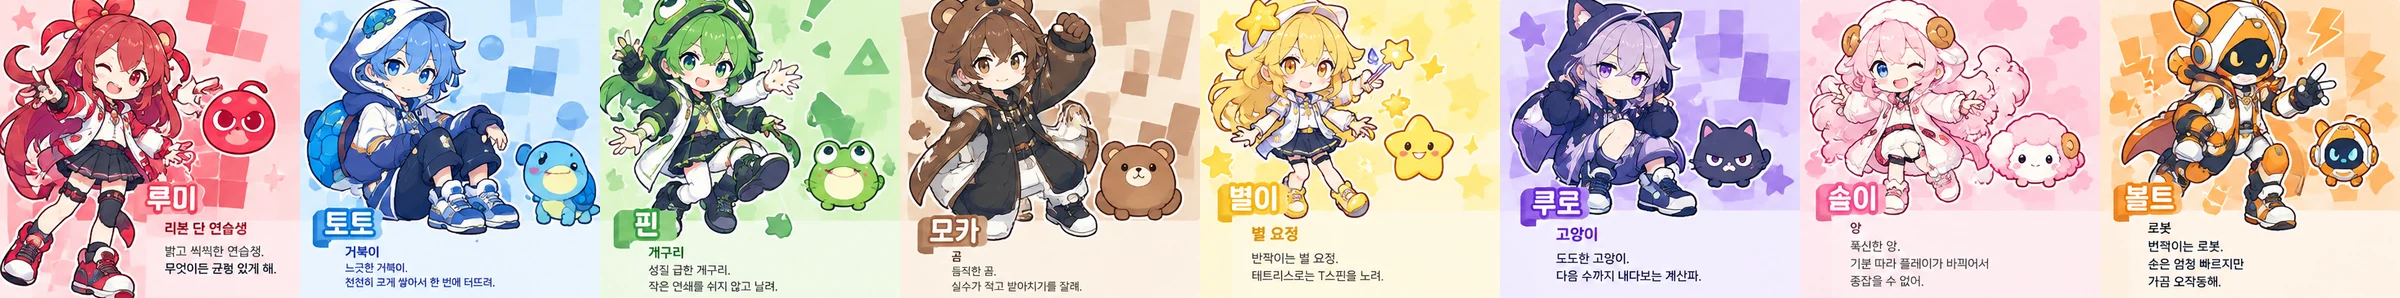
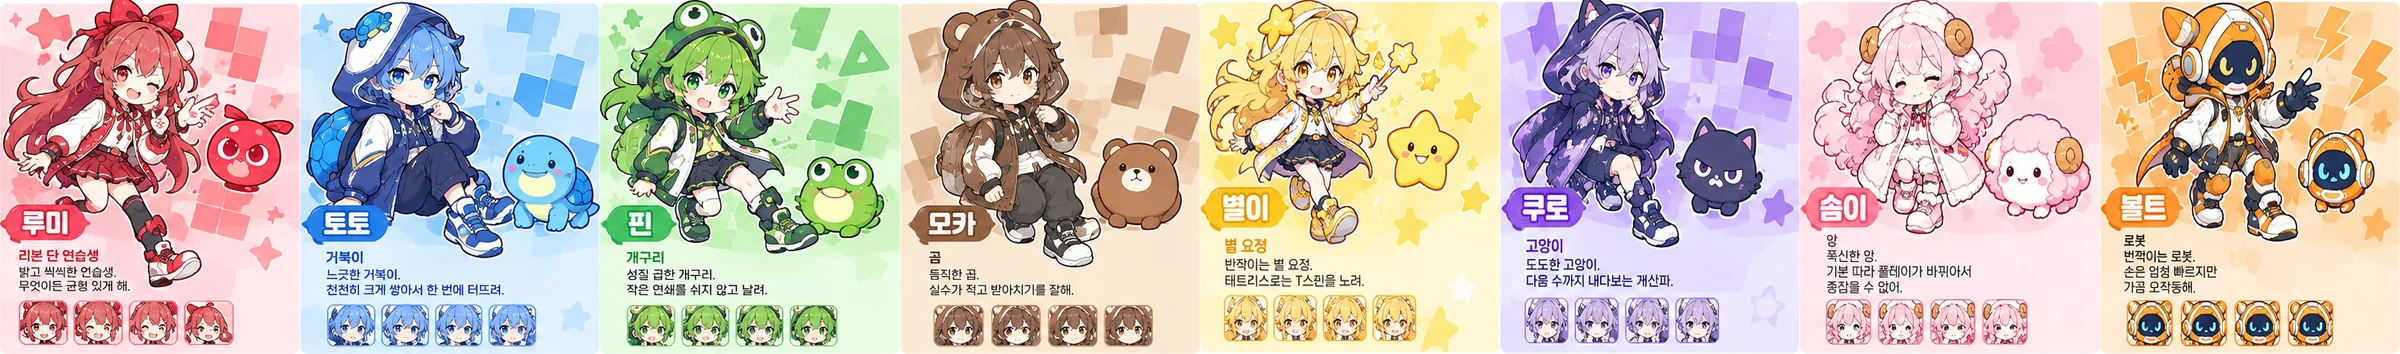
캐릭터 그림을 손 고친 새 그림으로 교체
- 새 그림(손 모양 수정, 카드 아래 표정 4개 포함)에서 카드 · 얼굴 · 마스코트 아이콘을 다시 잘라 img/chars_*.webp 교체
- 카드 칸 크기 300×354로(새 카드 비율), 폰 캐릭터 고르기 카드도 같은 비율
- 마스코트 아이콘은 지난번처럼 흰 테두리·잡티 없이 가장자리를 부드럽게

Claude-Session: https://claude.ai/code/session_01BpEoT5hGvA36WJdbpSd1D1

diff --git a/public/js/chars.js b/public/js/chars.js
@@ -37,10 +37,10 @@ function charAi(base, ch, kind) {
 }
 
 /* ---------- 캐릭터 그림 ----------
-   img/chars_card.webp: 카드(일러스트 + 이름·소개) 300×298 · chars_bust.webp: 얼굴·상반신 160×160 · chars_icon.webp: 마스코트(배경 투명) 128×128
+   img/chars_card.webp: 카드(일러스트 + 이름·소개 + 표정) 300×354 · chars_bust.webp: 얼굴·상반신 160×160 · chars_icon.webp: 마스코트(배경 투명) 128×128
    모두 CHARS 순서대로 가로 한 줄 */
 const CHAR_IMG = typeof Image === 'function' ? { card: new Image(), bust: new Image(), icon: new Image() } : null;
-const CHAR_CELL = { card: [300, 298], bust: [160, 160], icon: [128, 128] };
+const CHAR_CELL = { card: [300, 354], bust: [160, 160], icon: [128, 128] };
 if (CHAR_IMG) for (const k in CHAR_IMG) {
   CHAR_IMG[k].onload = () => { if (!window.gameReady) return; if (typeof dlgFace === 'function' && dlgOpen()) dlgFace(); if (game.state === 'menu') { drawArts(); if (cur === 'chars') renderChars(); if (cur === 'adv') renderAdv(); if (cur === 'stats' && typeof paintInfo === 'function') paintInfo(); } };
   CHAR_IMG[k].src = `img/chars_${k}.webp`;

diff --git a/public/index.html b/public/index.html
@@ -447,7 +447,7 @@
     #sc-main .tile .rec { left: 7% !important; right: auto !important; top: auto !important; bottom: 9% !important; font-size: 13px; padding: 2px 10px; }
     /* 캐릭터 고르기(폰): 두 줄씩 정사각 카드 */
     #sc-chars { grid-template-columns: 1fr 1fr !important; grid-auto-rows: auto !important; }
-    #sc-chars .tile { aspect-ratio: 1 / 1; min-height: 0; }
+    #sc-chars .tile { aspect-ratio: 300 / 354; min-height: 0; }
     #sc-chars .charcard .mine { font-size: 11px; padding: 1px 7px; top: 7%; right: 8%; }
     /* 어드벤처 스테이지(폰): 키를 키워 얼굴 그림 아래에 스테이지 이름·별이 오게 */
     #sc-adv .advst { min-height: 250px; }
